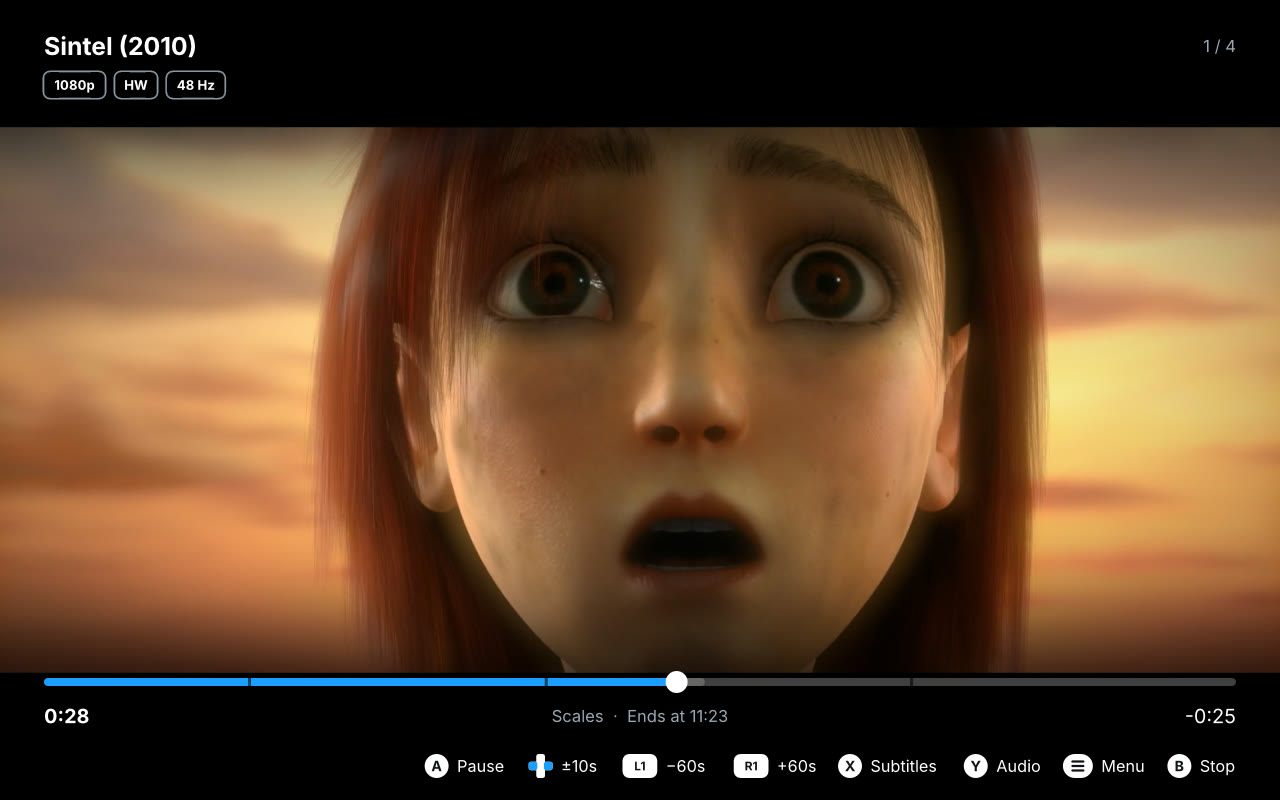
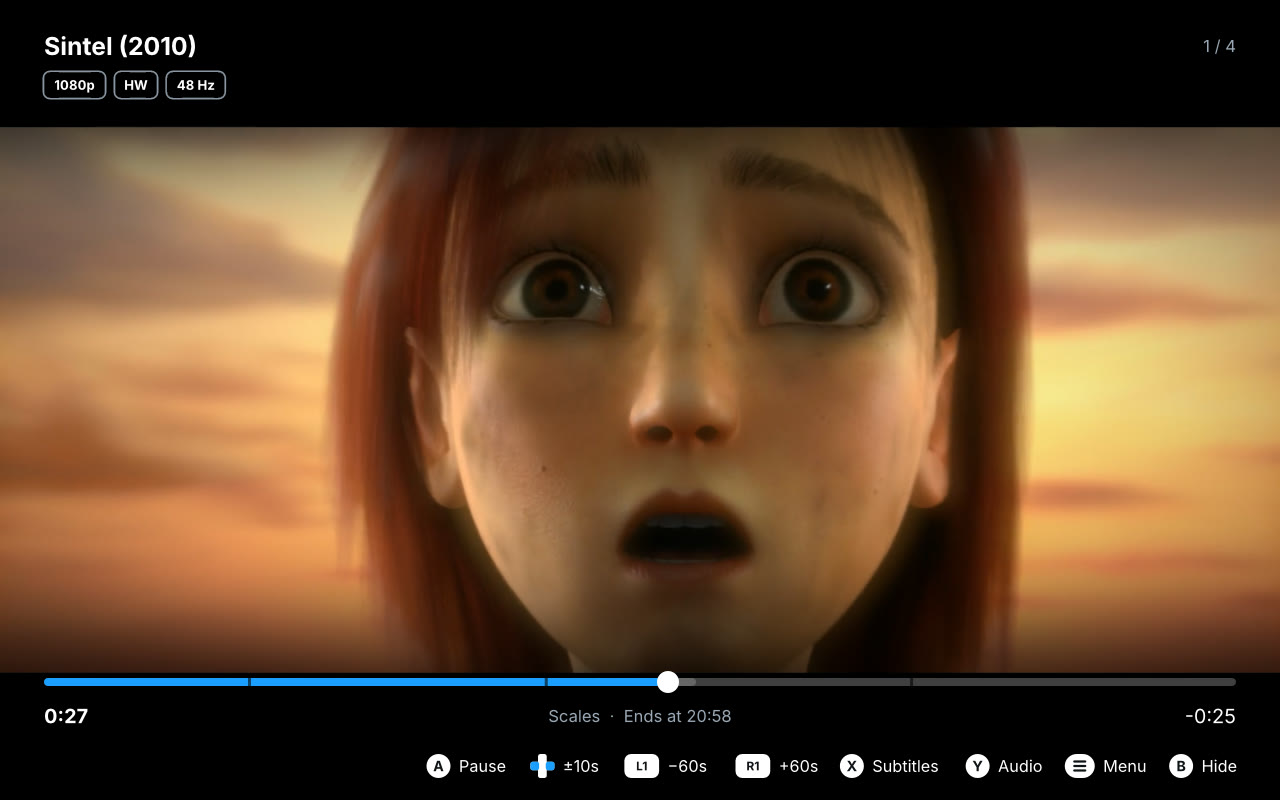
README: refresh the screenshots for v0.7.0
All seven retaken with the current UI (playback menu with the Video row
and subtitle brightness, audio menu with night mode, playback info with
the new rows), plus two new ones: the start screen with a local folder,
a network share, a DLNA server and Recently played tags, and the Video
menu. Taken from a profile without server accounts; the DLNA server is
the mock. DEVELOPMENT.md notes how.

diff --git a/README.md b/README.md
@@ -59,19 +59,22 @@ there is a single process and nothing between the video and the screen.
 
 | | |
 |---|---|
-| ![Library: a Movies folder with watched marks and resume progress](docs/screenshots/library.png) | ![Resume dialog over the library](docs/screenshots/resume.png) |
-| Library with watched marks and progress | Resume where you left off |
-| ![Audio menu with a 5.1 track and the headphone surround toggle](docs/screenshots/audio.jpg) | ![Download subtitles menu listing OpenSubtitles results](docs/screenshots/subtitles.jpg) |
-| Audio tracks and headphone surround | Subtitle download |
-| ![Playback menu: tracks, subtitle size and delay, picture, refresh-rate matching](docs/screenshots/menu.jpg) | ![Playback info: hardware decoding, HDR state, matched refresh rate, audio output](docs/screenshots/info.jpg) |
+| ![Start screen: a local folder, a network share and a DLNA server, then Recently played with Local, DLNA and Network tags](docs/screenshots/start.png) | ![Library: a Movies folder with watched marks and resume progress](docs/screenshots/library.png) |
+| Start screen: folders, network shares, servers | Library with watched marks and progress |
+| ![Resume dialog over the library](docs/screenshots/resume.png) | ![Download subtitles menu listing OpenSubtitles results](docs/screenshots/subtitles.jpg) |
+| Resume where you left off | Subtitle download |
+| ![Audio menu with a 5.1 track, night mode and the headphone surround toggle](docs/screenshots/audio.jpg) | ![Video menu: picture mode, refresh-rate matching, decoding, HDR and SDR to HDR](docs/screenshots/video.jpg) |
+| Audio tracks, night mode, headphone surround | Video menu (picture, refresh rate, decoding, HDR) |
+| ![Playback menu: tracks, video settings, subtitle size, brightness, position and delay, audio delay, volume, speed](docs/screenshots/menu.jpg) | ![Playback info: hardware decoding, HDR state, matched refresh rate, audio output, keep awake, dropped frames](docs/screenshots/info.jpg) |
 | Playback menu | Playback info (View button) |
 
 Taken at the Steam Deck's 1280×800 in gamescope (headless), with the Deck
 OLED profile. Video: *Sintel* trailer, © Blender Foundation,
 [durian.blender.org](https://durian.blender.org), licensed
 [CC BY 3.0](https://creativecommons.org/licenses/by/3.0/). The other titles
-in the library are Blender open movies used as sample file names, and the
-subtitle results come from the project's local test server
+in the library are Blender open movies used as sample file names; the
+DLNA server is the project's test server (`tools/mock-dlna.py`), and the
+subtitle results come from its local test server
 (`tools/mock-opensubtitles.py`), not from OpenSubtitles.
 
 ## Why another video player?

diff --git a/docs/DEVELOPMENT.md b/docs/DEVELOPMENT.md
@@ -184,9 +184,23 @@ track, three subtitle tracks and chapters; a hand-written `resume.json` in
 `.dev/headless/data/` for the watched/progress marks (`KEEP=1` keeps it);
 and `KEEP=1 MEDIA=… DEVICE=deck-oled XWAYLAND2=1 RATES=45,48,60,72,90
 SURROUND=1 OSMOCK=1 MOCK_TITLE=Sintel.2010 tools/headless-run.sh -- …`
-with `gshot:` steps. Seek right before a shot (`raw:["seek",…]`) to get the
-same frame each time; seeking with `key:RIGHT` also shows the overlay.
-Video shots are saved as JPEG (`ffmpeg -q:v 3`), flat UI shots as PNG.
+with `gshot:` steps. Video shots are saved as JPEG (`ffmpeg -q:v 3`), flat
+UI shots as PNG.
+
+Refreshed for v0.7.0 (2026-10-29), with HDR=1 as well:
+- Start from a profile without server accounts (a run without `KEEP=1`
+  leaves fresh `plex.json` / `jellyfin.json`), so no real server shows.
+- The start screen's other sources: `EXTRA_FOLDER=` a network mount (a
+  `gio mount` share works: kind *network*), `tools/mock-dlna.py --name
+  "Home Media Server" .dev/screens/Videos` with a hand-written `dlna.json`
+  (the mock's fixed id, its LAN `desc.xml` address), and *Recently
+  played* entries in `resume.json` (`played` timestamps; a DLNA one under
+  `dlna://<id>/<percent-encoded object id>` with a `title`).
+- Right after a `raw:["seek",…]` the frame came out black for over a
+  second; capture during normal playback instead: start the video, `sleep`
+  to the moment, then `key:ENTER key:ENTER` (pause and resume) to show the
+  overlay without moving. *Playback info* shows 2 dropped frames from the
+  refresh-rate switch at start.
 
 Notes and pitfalls:
 - Unix socket paths must be under ~108 characters; the tool uses
